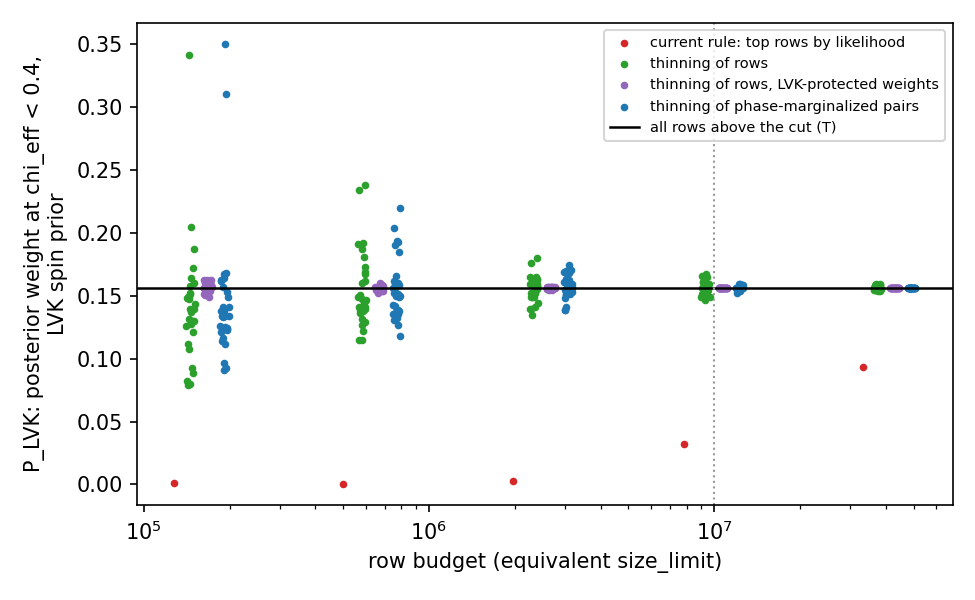
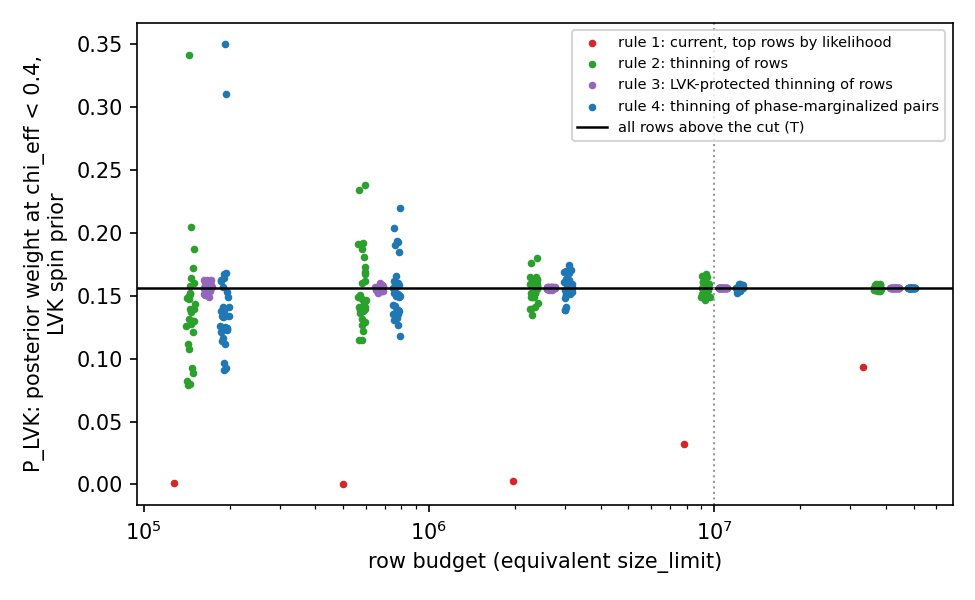
research: E3 report, numbered rules, rule 3 defined before use
Claude-Session: https://claude.ai/code/session_015Ha8CowgXaDTZuUXirm2SN

Changed region(s): [[0.5846, 0.03, 0.9538, 0.24]]

diff --git a/research/weight-thinning/analyze_sweep.py b/research/weight-thinning/analyze_sweep.py
@@ -15,10 +15,10 @@ import pandas as pd
 HERE = Path(__file__).resolve().parent
 OUT = HERE.parents[1] / "artifacts/research/weight-thinning"
 SCALES = [0.015625, 0.0625, 0.25, 1.0, 4.0]
-RULES = {"d": ("current rule: top rows by likelihood", "#d62728"),
-         "b": ("thinning of rows", "#2ca02c"),
-         "e": ("thinning of rows, LVK-protected weights", "#9467bd"),
-         "f": ("thinning of phase-marginalized pairs", "#1f77b4")}
+RULES = {"d": ("rule 1: current, top rows by likelihood", "#d62728"),
+         "b": ("rule 2: thinning of rows", "#2ca02c"),
+         "e": ("rule 3: LVK-protected thinning of rows", "#9467bd"),
+         "f": ("rule 4: thinning of phase-marginalized pairs", "#1f77b4")}
 QS = [("chieff", 5), ("chieff", 50), ("chieff", 95), ("mchirp", 5), ("mchirp", 50),
       ("mchirp", 95)]
 N_SEEDS = 30

diff --git a/research/weight-thinning/2026-11-22_feature.md b/research/weight-thinning/2026-11-22_feature.md
@@ -17,19 +17,20 @@ branch. The combinations are those recomputed in the companion measurement
 ## Question and answer
 
 The question: how far is the posterior computed from the stored rows from the posterior of all
-rows above the nominal cut (the rows dot-PE intends to keep, defined in Setup), for the current
-rule and for three random thinning rules, as the number of stored rows varies from 64 times fewer
-to 4 times more than production stores?
+rows above the nominal cut (the rows dot-PE intends to keep), for four rules of choosing the
+stored rows, as the row budget (the number of rows stored) varies from 64 times fewer to 4 times
+more than production stores? The nominal cut, the row budget and the four rules are defined in
+Setup. Rule 1 is the current rule; rules 2, 3 and 4 are random thinning rules, and rule 4 is the
+one implemented in dot-PE.
 
-The answer: all three thinning rules reproduce the full posterior down to a quarter of
-production's budget, and the one that protects rows important under the LVK spin prior (isotropic
-spin directions, uniform spin magnitudes) does so down to the smallest budget tested, while the
-current rule fails at every budget tested. At production's budget the current rule moves the
-weight at chi_eff < 0.4 (chi_eff, the mass-weighted aligned spin) under the LVK spin prior from
-0.156 to 0.032 and the lower end of the chi_eff 90 % interval by 0.16 of the interval's width; the thinning rules
-reproduce that weight with a root-mean-square error of one run of 0.005 (thinning of rows), 0.002
-(thinning of phase-marginalized pairs, the rule implemented in dot-PE) and 0.0002 (thinning with
-LVK-protected weights), and move no interval end by more than 0.001 of its width.
+The answer: rules 2, 3 and 4 reproduce the full posterior down to a quarter of production's
+budget, and rule 3 does so down to the smallest budget tested; rule 1 fails at every budget
+tested. At production's budget rule 1 moves the weight at chi_eff < 0.4 (chi_eff, the
+mass-weighted aligned spin) under the LVK spin prior (isotropic spin directions, uniform spin
+magnitudes) from 0.156 to 0.032, and the lower end of the chi_eff 90 % interval by 0.16 of the
+interval's width. Rules 2, 3 and 4 reproduce that weight with a root-mean-square error of one run
+(defined in Setup) of 0.005, 0.0002 and 0.002, and move no interval end by more than 0.001 of its
+width.
 
 ## Setup
 
@@ -62,10 +63,13 @@ each bank (a set of templates covering one mass range; this run has three), and 
 
 ### The four rules
 
-Current rule. Keep the k rows of highest b; each keeps its weight w.
+The report compares four rules for choosing which k rows to store. They are numbered 1 to 4 and
+referred to by number from here on.
 
-Thinning of rows. Each row gets a random number u, uniform on (0, 1], drawn once, and the rule
-keeps the k rows with the largest
+**Rule 1, the current rule.** Keep the k rows of highest b; each keeps its weight w.
+
+**Rule 2, thinning of rows.** Each row gets a random number u, uniform on (0, 1], drawn once, and
+the rule keeps the k rows with the largest
 
     w / u,
 
@@ -80,19 +84,30 @@ over the stored rows equals, on average over the random numbers, the same sum ov
 construction is *priority sampling* (Duffield, Lund & Thorup 2007, J. ACM 54, 32). With three
 stages, τ is the largest w/u dropped at any stage the row passed.
 
-Thinning of rows, LVK-protected. As thinning of rows, but the random choice uses the average of
-the row's normalized weight under the IAS prior (dot-PE's production prior) and under the LVK
-spin prior, so a row that matters under either prior is kept; each posterior is then reweighted
-back by the ratio of its own weight to that average.
+**Rule 3, LVK-protected thinning of rows.** Rule 2 chooses rows by their weight w under the IAS
+prior (dot-PE's production prior) alone. A row with small w but large weight under the LVK spin
+prior is then likely to be dropped, and the LVK posterior loses it. Rule 3 is rule 2 with w
+replaced, in the choice of rows and in τ, by the average of the row's normalized weights under
+the two priors,
 
-Thinning of phase-marginalized pairs. The rows of one template and one extrinsic sample, a
-*pair*, are first combined: the pair's weight W is the sum of w over its phases, and one of its
-phases is drawn with probability w / W and stored as the pair's row. The pairs are then thinned
-as rows are above, with W in place of w. A pair is stored as one row, so the budget is the same.
-This rule is the one implemented in dot-PE (`row_thinning="pairs"`, `dot_pe/row_thinning.py`).
+    w_avg = ( w / S + w_LVK / S_LVK ) / 2,
 
-Each thinning rule is run with 30 different sets of random numbers, *draws*; a draw is what one
-dot-PE run would produce. The current rule has no randomness.
+with w_LVK = w r, r the row's ratio of the LVK spin prior to dot-PE's (defined with P_LVK below),
+and S, S_LVK the sums of w and w_LVK over T. A row that carries weight under either prior has
+w_avg at least half its normalized weight under that prior, so it is kept about as reliably as
+rule 2 would keep it under that prior alone; this is what *LVK-protected* means here. A kept row's
+weights are then ŵ_avg w / w_avg for the IAS posterior and ŵ_avg w_LVK / w_avg for the LVK
+posterior, with ŵ_avg = max(w_avg, τ), so both sums stay correct on average.
+
+**Rule 4, thinning of phase-marginalized pairs.** The rows of one template and one extrinsic
+sample, a *pair*, are first combined: the pair's weight W is the sum of w over its phases, and one
+of its phases is drawn with probability w / W and stored as the pair's row. The pairs are then
+thinned as in rule 2, with W in place of w. A pair is stored as one row, so the budget is the
+same. This rule is the one implemented in dot-PE (`row_thinning="pairs"`,
+`dot_pe/row_thinning.py`).
+
+Each of rules 2, 3 and 4 is run with 30 different sets of random numbers, *draws*; a draw is
+what one dot-PE run would produce. Rule 1 has no randomness.
 
 ### Tail weight P_LVK
 
@@ -140,7 +155,7 @@ in one direction.
 ### Reading
 
 A rule is read as acceptable at a budget if its rms error is below 0.02 for P_LVK and below 0.1
-of the width for every shift, and below the current rule's error. These limits were chosen after
+of the width for every shift, and below rule 1's error. These limits were chosen after
 the results.
 
 ## Results
@@ -150,49 +165,46 @@ production's budget?
 
 ![b of stored rows](review/fig1_b_kept.png)
 
-The current rule stores every row of T (all rows above the nominal cut in the sampled blocks)
-above b = 24.26 and none below, so nothing between the
-nominal cut and 24.26 reaches the posterior; the thinning rules store all rows near the top and a
-sparser random subset all the way down to c. The pair rule stores fewer rows at high b because
-each pair keeps one of its phases.
+Rule 1 stores every row of T (all rows above the nominal cut in the sampled blocks) above
+b = 24.26 and none below, so nothing between the nominal cut and 24.26 reaches the posterior;
+rules 2, 3 and 4 store all rows near the top and a sparser random subset all the way down to c.
+Rule 4 stores fewer rows at high b because each pair keeps one of its phases.
 
 What posterior of chi_eff under the LVK spin prior does each rule give, at production's budget?
 
 ![chi_eff, LVK spin prior](review/fig2_chieff_lvk.png)
 
-The three thinning rules lie on T's posterior, including its tail below chi_eff = 0.4; the
-current rule loses most of that tail and piles the weight near chi_eff = 0.7.
+Rules 2, 3 and 4 lie on T's posterior, including its tail below chi_eff = 0.4; rule 1 loses most
+of that tail and piles the weight near chi_eff = 0.7.
 
-How does P_LVK of one run change with the budget, for each rule? Below, (rows), (pairs) and
-(LVK-protected) name the three thinning rules of Setup.
+How does P_LVK of one run change with the budget, for each rule?
 
 ![P_LVK against budget](review/fig3_P_LVK_vs_budget.png)
 
-Each dot is one draw. The current rule gives 0.032 at production's budget and 0.094 at four
-times that, against T's 0.156, and nearly 0 at smaller budgets. The thinning draws scatter around
-0.156 at every budget, more widely as the budget shrinks; at production's budget the largest
-single-draw errors are 0.011 (rows), 0.004 (pairs) and 0.0004 (LVK-protected).
+Each dot is one draw. Rule 1 gives 0.032 at production's budget and 0.094 at four times that,
+against T's 0.156, and nearly 0 at smaller budgets. The draws of rules 2, 3 and 4 scatter around
+0.156 at every budget, more widely as the budget shrinks; at production's budget their largest
+single-draw errors are 0.011 (rule 2), 0.0004 (rule 3) and 0.004 (rule 4).
 
 How do the interval ends of chi_eff and chirp mass move with the budget?
 
 ![quantile shifts against budget](review/fig4_quantile_shift_vs_budget.png)
 
-The current rule moves the lower ends (5 % quantiles) upward by 0.10 to 0.43 of the width for
-chi_eff and 0.06 to 0.25 for chirp mass, more at smaller budgets. No draw of any thinning rule
-moves any of the six interval ends by more than 0.017 of the width, at any budget.
+Rule 1 moves the lower ends (5 % quantiles) upward by 0.10 to 0.43 of the width for chi_eff and
+0.06 to 0.25 for chirp mass, more at smaller budgets. No draw of rules 2, 3 or 4 moves any of the six interval ends by more than 0.017 of the width, at any budget.
 
 How does n_effective_i change with the budget?
 
 ![n_effective_i against budget](review/fig5_neff_i_vs_budget.png)
 
-The current rule's n_effective_i falls from 286 at four times production's budget to 232 at
-production's and 56 at 1/64, below the paper repos' minimum of 150 from a `size_limit` of 6.25e5
-down; the thinning rules stay between 317 and 340, against T's 337, at every budget.
+Rule 1's n_effective_i falls from 286 at four times production's budget to 232 at production's
+and 56 at 1/64, below the paper repos' minimum of 150 from a `size_limit` of 6.25e5 down; rules 2,
+3 and 4 stay between 317 and 340, against T's 337, at every budget.
 
-The error of one run per rule and budget: for the thinning rules the rms error over the 30 draws,
-for the current rule its single (signed) error.
+The error of one run per rule and budget: for rules 2, 3 and 4 the rms error over the 30 draws,
+for rule 1 its single (signed) error.
 
-| equivalent `size_limit` | P_LVK: current (single) | rows (rms) | LVK-protected (rms) | pairs (rms) | chi_eff 5 % shift: current (single) | rows | LVK-protected | pairs | chirp mass 5 % shift: current (single) | rows | LVK-protected | pairs |
+| equivalent `size_limit` | P_LVK: rule 1 (single) | rule 2 (rms) | rule 3 (rms) | rule 4 (rms) | chi_eff 5 % shift: rule 1 (single) | rule 2 | rule 3 | rule 4 | chirp mass 5 % shift: rule 1 (single) | rule 2 | rule 3 | rule 4 |
 |---|---|---|---|---|---|---|---|---|---|---|---|---|
 | 4e7 | −0.063 | 0.002 | 0.0001 | 0.0001 | 0.096 | 0.0000 | 0.0000 | 0.0000 | 0.059 | 0.0001 | 0.0001 | 0.0000 |
 | 1e7 (production) | −0.124 | 0.005 | 0.0002 | 0.002 | 0.160 | 0.0001 | 0.0000 | 0.0000 | 0.115 | 0.0004 | 0.0004 | 0.0001 |
@@ -200,17 +212,17 @@ for the current rule its single (signed) error.
 | 6.25e5 | −0.156 | 0.030 | 0.002 | 0.024 | 0.314 | 0.002 | 0.003 | 0.002 | 0.178 | 0.0013 | 0.0016 | 0.0013 |
 | 1.5625e5 | −0.156 | 0.050 | 0.003 | 0.054 | 0.426 | 0.008 | 0.006 | 0.005 | 0.253 | 0.004 | 0.003 | 0.003 |
 
-Averaged over the 30 draws, the thinning rules' P_LVK differs from T's by at most 0.015 (rows,
-1.5625e5), 1.6 times the uncertainty of that average, so their error is scatter, not a systematic
-offset. By the reading above, all three thinning rules are acceptable down to a `size_limit` of
-2.5e6; below it only the LVK-protected rule keeps the rms error of P_LVK under 0.02. The current
-rule is not acceptable at any budget tested.
+Averaged over the 30 draws, the P_LVK of rules 2, 3 and 4 differs from T's by at most 0.015
+(rule 2, 1.5625e5), 1.6 times the uncertainty of that average, so their error is scatter, not a
+systematic offset. By the reading above, rules 2, 3 and 4 are acceptable down to a `size_limit`
+of 2.5e6; below it only rule 3 keeps the rms error of P_LVK under 0.02. Rule 1 is not acceptable
+at any budget tested.
 
 ## Limitations
 
 - One event, and 120 of its 1162 template blocks. How many rows lie above the cut, and so how
   much a given `size_limit` must thin, differs between events.
-- T contains only rows with b ≥ c; for the pair rule, a pair's weight is the sum over its phases
+- T contains only rows with b ≥ c; for rule 4, a pair's weight is the sum over its phases
   in T, not over all 100.
 - P_LVK leaves out the distance part of the LVK prior, so its value (0.156 on T) is not
   comparable with cogwheel's 0.247 under the full LVK prior; the comparison between rules is
@@ -218,13 +230,14 @@ rule is not acceptable at any budget tested.
 - n_effective_i computed from thinned weights can exceed the value of the full table, because
   raising small weights to τ makes the weights more even; here it stays within 20 of T's 337.
 - The reading's limits, 0.02 and 0.1, were chosen after the results, and they apply to the rms
-  error: single draws of the rows and pairs rules at a `size_limit` of 2.5e6 reach 0.024 and 0.018.
+  error: single draws of rules 2 and 4 at a `size_limit` of 2.5e6 reach 0.024 and 0.018.
 
 ## Reproduction
 
     python research/lsf_submit.py --name e3_<rule>_<scale> --env o4a-pe --mem-mb 48000 -- \
         research/weight-thinning/thin.py --rule <rule> --seeds 30 --scale <scale>
-        # rule: d current, b rows, e LVK-protected, f pairs; scale: 0.015625 0.0625 0.25 1 4
+        # <rule> is the code's letter: d = rule 1, b = rule 2, e = rule 3, f = rule 4
+        # <scale>: 0.015625 0.0625 0.25 1 4
     python research/weight-thinning/analyze_sweep.py      # env o4a-pe
 
 Output: `artifacts/research/weight-thinning/` (`sweep.csv`, `sweep_summary.csv`,

diff --git a/research/progress.md b/research/progress.md
@@ -51,3 +51,4 @@ One row per decision, design approval, gate outcome or LSF job. Times are local 
 | 2026-11-23 04:21 | E3 sweep done; report rewritten | 16 jobs exit 0. At production's budget the current rule gives P_LVK 0.032 against T's 0.156; thinning rules within 0.005 (rows), 0.002 (pairs), 0.0002 (LVK-protected) in one draw (rms over 30). Report rewritten from scratch; sent to both reviewers. |
 | 2026-11-23 04:21 | LSF 563110 failed; 563257 | 563110 collected no tests: the worktree was under /tmp, which compute nodes do not see. Worktree moved to `artifacts/research/wt_size_limit` (git-ignored); resubmitted as 563257. |
 | 2026-11-23 04:24 | E3 report | Rewritten report: reviewer 1 FIX ×2 then 3 wording items applied; reviewer 2 PASS. Final. |
+- 2026-11-23 06:28 E3 report: rules numbered 1-4 and referred to by number; rule 3 (LVK-protected) defined with formula before use; figure legends renumbered (analyze_sweep.py rerun, login node, 7 s). No numbers changed.
